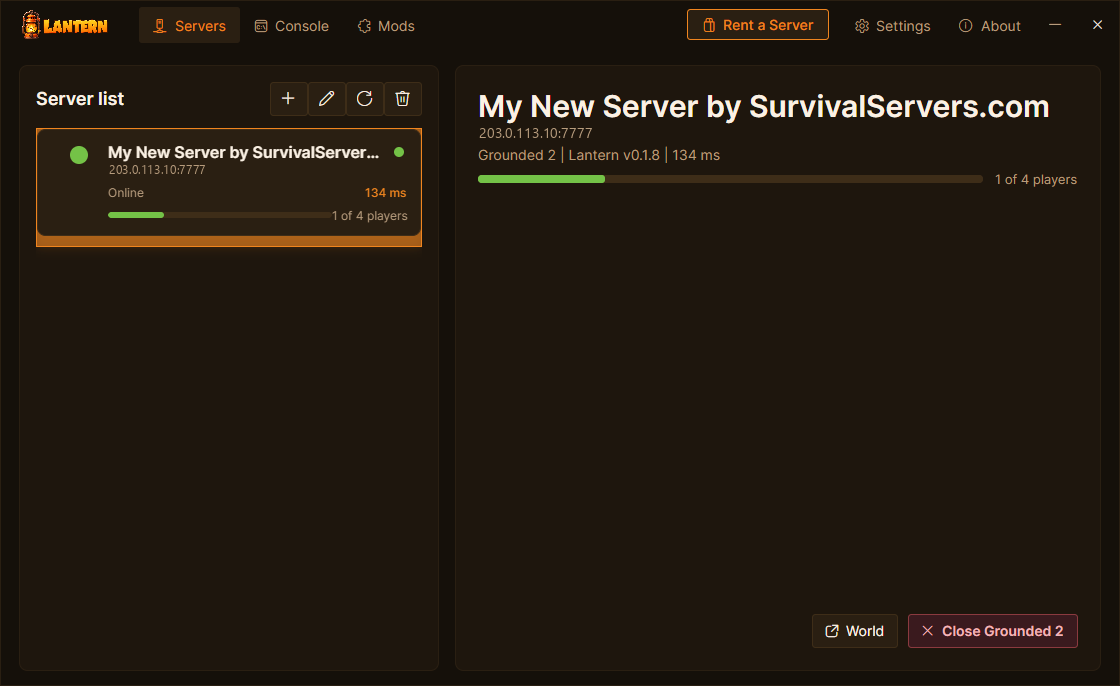
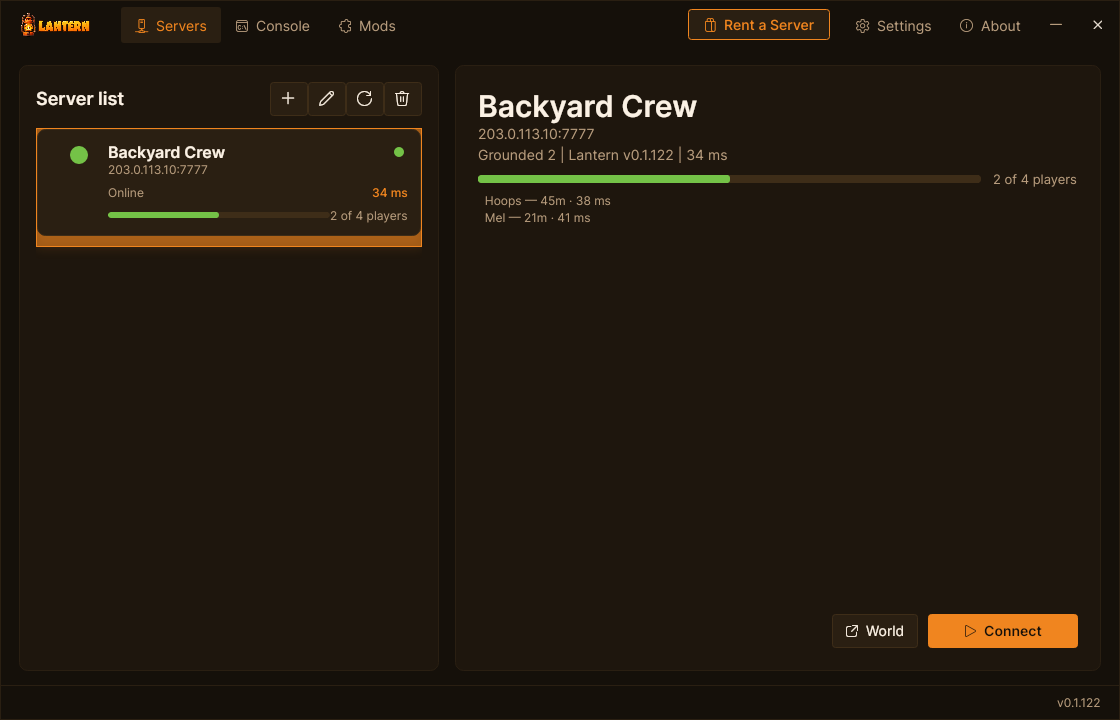
README: app captures from v0.1.122 (servers, Console tab, World window), World window and save import need LanternServer 0.1.122+

diff --git a/README.md b/README.md
@@ -20,7 +20,7 @@ Grounded 2 has no dedicated server. Its multiplayer runs inside one player's gam
 Every player must install Lantern to join a Lantern server. Stock Grounded 2 cannot connect to a Lantern server directly.
 
 <p align="center">
-  <img src="docs/img/launcher.png" alt="The Lantern app: a saved Grounded 2 server with its status, ping and player count" width="860">
+  <img src="docs/img/launcher.png" alt="The Lantern app: a saved Grounded 2 server with its status, ping, players and the Connect button" width="860">
 </p>
 
 ## Features
@@ -29,10 +29,18 @@ Every player must install Lantern to join a Lantern server. Stock Grounded 2 can
 Add the server's address and gameplay port in the app and click Connect. The app puts its join mod next to your game files, starts Grounded 2 and joins the server. The server list shows whether each server is up, its ping and how many players are on it.
 
 ### 💾 World backups
-The server takes a snapshot of the world every time the game autosaves. The app's World window takes a snapshot on demand, rolls the world back to an earlier one, or uploads a Grounded 2 save from your own PC so the group carries on from it on the server.
+LanternServer keeps snapshots of the world: on every autosave by default on a self-hosted server, and on demand with `save snapshot`. On servers running LanternServer 0.1.122 or newer, the app's World window lists them, rolls the world back to one, or uploads a Grounded 2 save from your own PC so the group carries on from it on the server. It asks before it replaces the world.
+
+<p align="center">
+  <img src="docs/img/world-backups.png" alt="The Lantern World window: a server's snapshots with Refresh, Download and Restore, and the import button" width="860">
+</p>
 
 ### 🖥 Console in the app
 The Console tab talks to the server's RCON port with the admin password: `status`, `players`, `save snapshot`, `save list`, `say`, `announce` and `motd`, without a separate RCON tool.
+
+<p align="center">
+  <img src="docs/img/console.png" alt="The Lantern Console tab connected to a server, showing status, save snapshot and save list" width="860">
+</p>
 
 ### 📡 Server query
 LanternServer answers Source A2S query, so server lists, monitoring tools and Discord bots can read the server's name, status and player count.
@@ -85,7 +93,7 @@ Open Lantern, click **+**, and enter a name, the server's IP or hostname, and it
 Lantern installs UE4SS and its join mod into the Grounded 2 game folder when you connect. It does not change the game's own files, and Steam updates the game as usual.
 
 ### Can I bring my own world?
-Yes. Open the server's **World** window in the app and upload the save folder from your PC. The server takes a snapshot first and restarts on the uploaded world.
+Yes, on a server running LanternServer 0.1.122 or newer: open the server's **World** window in the app and upload a zip of the save folder from your PC. The server keeps a copy of the current world first and restarts on the uploaded one. On a hosted server, your host can also place it for you.
 
 ### Can I run the server on the PC I play on?
 Run it on a separate machine. The server runs its own copy of Grounded 2, and Steam allows one running copy per account.

diff --git a/docs/img/README.md b/docs/img/README.md
@@ -5,4 +5,6 @@ README/docs images:
 - `lantern-lockup-light.png` / `lantern-lockup-dark.png`: the Lantern README header
   lockup for light and dark themes. Keep both aligned with the app and preview the
   rendered README before replacing either.
-- `launcher.png`: screenshot of the Lantern app
+- `launcher.png`, `console.png`, `world-backups.png`: the Lantern app v0.1.122,
+  captured against a stand-in server on a documentation-range address
+  (203.0.113.10) with made-up player names. Keep any new capture to the same rule.
